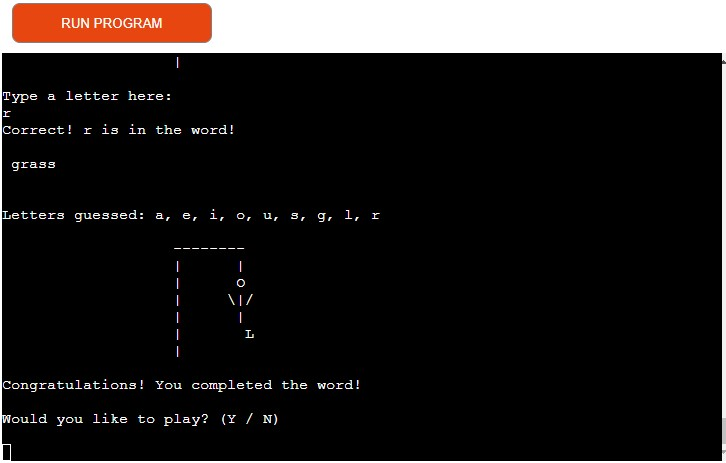
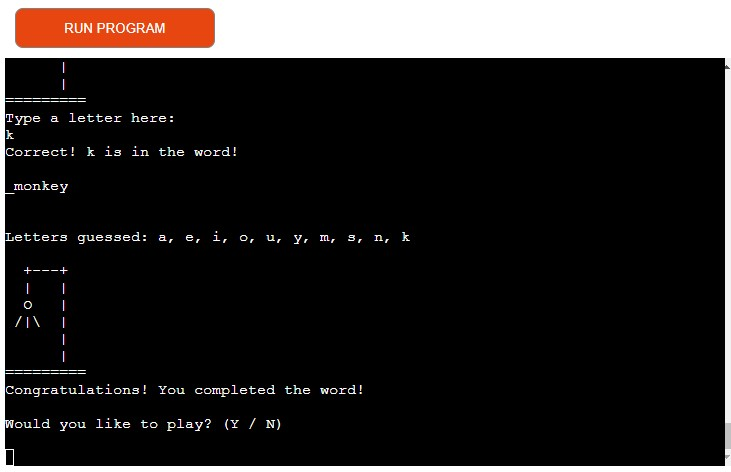
Updated link in read me file to heroku app

diff --git a/README.md b/README.md
@@ -146,7 +146,7 @@ Validation of words.py file:
 
 ## Bugs
 
-- I also came across a bug where the user could guess the same incorrect answer again and again. When looking closer at my code I realised that first of all I had used 'else if' which is JavaScript, so I changed it to the Python version 'elif'. Then I noticed that the problem was that the code was returning the answer if it was valid, before it had been checked to see if it was on the list of guessed letters. Fixing this was pretty simple as all I had to do was switch the lines of code around inside the while loop. So after the 'if' statement I put 'user_input in letters guessed' followed by the print statement. Then after the 'elif' statement I put the code to check if the users guess was valid. Therefore it would check if the answer was already guessed before returning it to the play_game() function to be checked if it's in the word or not.
+- I came across a bug where the user could guess the same incorrect answer again and again. When looking closer at my code I realised that first of all I had used 'else if' which is JavaScript, so I changed it to the Python version 'elif'. Then I noticed that the problem was that the code was returning the answer if it was valid, before it had been checked to see if it was on the list of guessed letters. Fixing this was pretty simple as all I had to do was switch the lines of code around inside the while loop. So after the 'if' statement I put 'user_input in letters guessed' followed by the print statement. Then after the 'elif' statement I put the code to check if the users guess was valid. Therefore it would check if the answer was already guessed before returning it to the play_game() function to be checked if it's in the word or not.
 
 
 Before fix:
@@ -160,6 +160,11 @@ After fix:
 - CURRENT BUG: I currently have bug where the spaces between the underscores do not show up after the user has guessed a letter. I've spent a long time trynig to fix this, even a tutor could not fix the problem after an hour of us trying different things. Unfortunately I have run out of time to try fixing it and will have to leave it as it is. The game is still playable but the word is harder to see without the underscores. 
 
 ![Screenshot of code with bug underlined in red ](./docs/bug3.jpg)
+
+
+- CURRENT BUG: There is a space in front of the completed word, and I have no idea why this is happening. It didn't happen before it was recommend by my tutor to add spaces between the underscores so it must be to do with that. However that change was suggested the evening before my deadline at 12:00 noon the next day, so like the other current bug I didn't have time to fix it.
+
+![Screenshot of bug with underscore before finished word](./docs/win.jpg)
 
 ---
 
